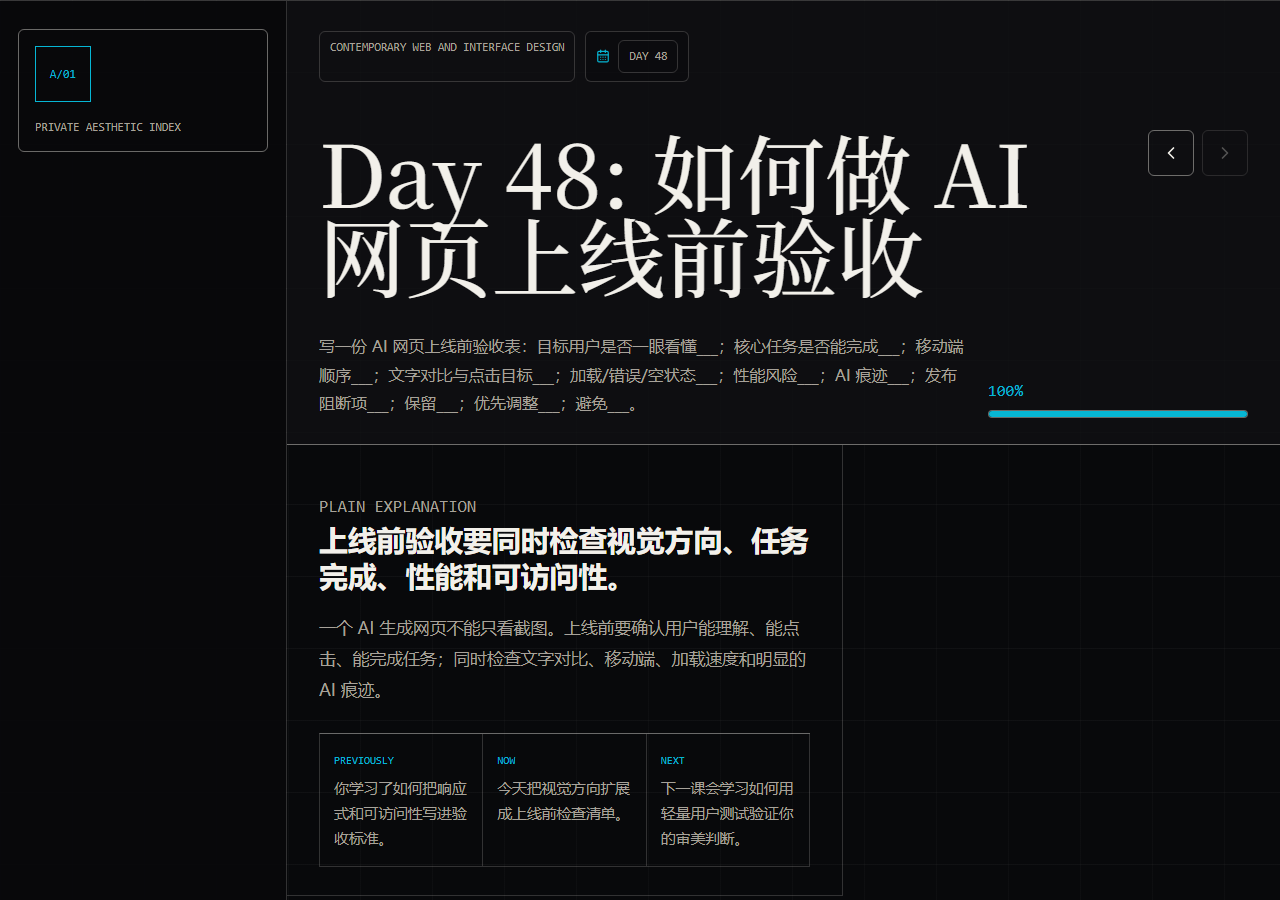
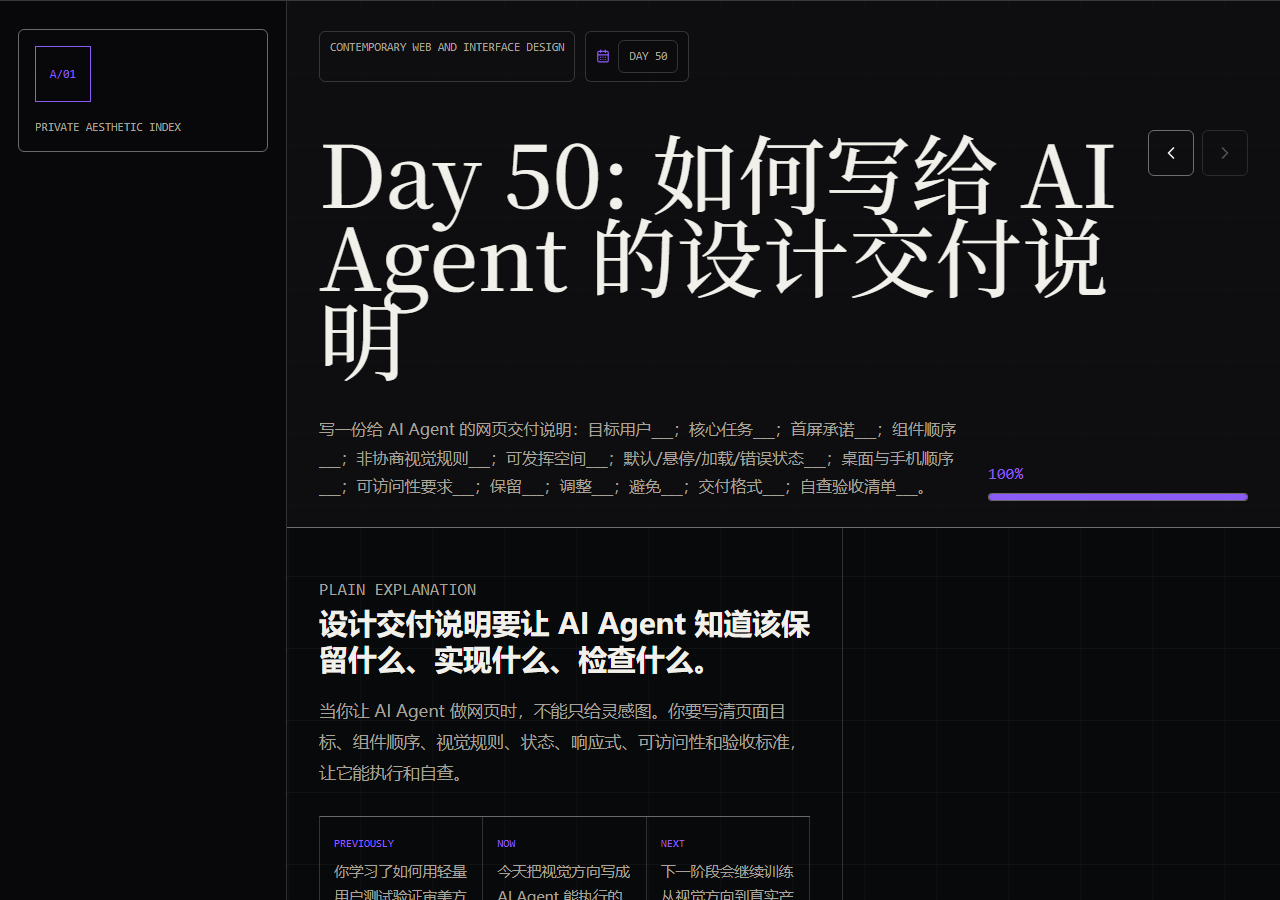
更新三个每日站的最新 UI 截图，并对调 04/05 保持深浅色节奏

diff --git a/work.html b/work.html
@@ -133,36 +133,13 @@
                 <div class="timeline-item reveal">
                     <div class="timeline-image">
                         <div class="timeline-screenshot" data-index="04">
-                            <img src="ai_tools_radar.png" alt="AI 工具雷达截图">
+                            <img src="ai_learning_coach.png" alt="AI 学习策展室截图">
                         </div>
                     </div>
                     <div class="timeline-content">
                         <span class="timeline-ghost">04</span>
                         <div class="timeline-meta">
                             <span class="section-number">04 / 2026</span>
-                            <span class="status-chip live">Live · Daily</span>
-                        </div>
-                        <h3>AI 工具雷达</h3>
-                        <p>每日一期的免费 AI 工具中文简报，写给不懂 AI 的人看。只收录真正免费、开源、能直接上手的工具，拒绝新闻噪音。每一期都沉淀为可打印的新手手册——日拱一卒，攒成一座工具说明书库。</p>
-                        <div class="timeline-tags">
-                            <span class="tag">PWA</span>
-                            <span class="tag">Automation</span>
-                            <span class="tag">Cloudflare Pages</span>
-                        </div>
-                        <a href="https://ai-tools-radar.pages.dev" class="timeline-link" target="_blank">立即体验</a>
-                    </div>
-                </div>
-
-                <div class="timeline-item reveal">
-                    <div class="timeline-image">
-                        <div class="timeline-screenshot" data-index="05">
-                            <img src="ai_learning_coach.png" alt="AI 学习策展室截图">
-                        </div>
-                    </div>
-                    <div class="timeline-content">
-                        <span class="timeline-ghost">05</span>
-                        <div class="timeline-meta">
-                            <span class="section-number">05 / 2026</span>
                             <span class="status-chip live">Live · Daily</span>
                         </div>
                         <h3>AI 学习策展室</h3>
@@ -174,6 +151,29 @@
                             <span class="tag">Cloudflare Pages</span>
                         </div>
                         <a href="https://ai-learning-coach.pages.dev" class="timeline-link" target="_blank">立即体验</a>
+                    </div>
+                </div>
+
+                <div class="timeline-item reveal">
+                    <div class="timeline-image">
+                        <div class="timeline-screenshot" data-index="05">
+                            <img src="ai_tools_radar.png" alt="AI 工具雷达截图">
+                        </div>
+                    </div>
+                    <div class="timeline-content">
+                        <span class="timeline-ghost">05</span>
+                        <div class="timeline-meta">
+                            <span class="section-number">05 / 2026</span>
+                            <span class="status-chip live">Live · Daily</span>
+                        </div>
+                        <h3>AI 工具雷达</h3>
+                        <p>每日一期的免费 AI 工具中文简报，写给不懂 AI 的人看。只收录真正免费、开源、能直接上手的工具，拒绝新闻噪音。每一期都沉淀为可打印的新手手册——日拱一卒，攒成一座工具说明书库。</p>
+                        <div class="timeline-tags">
+                            <span class="tag">PWA</span>
+                            <span class="tag">Automation</span>
+                            <span class="tag">Cloudflare Pages</span>
+                        </div>
+                        <a href="https://ai-tools-radar.pages.dev" class="timeline-link" target="_blank">立即体验</a>
                     </div>
                 </div>
 